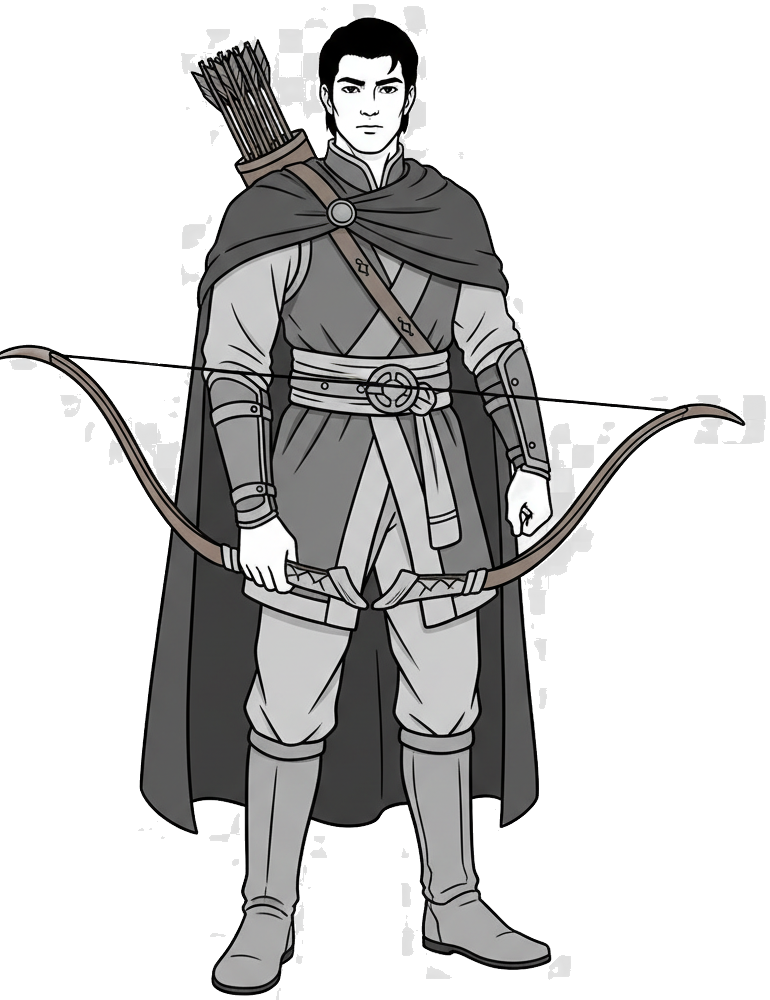
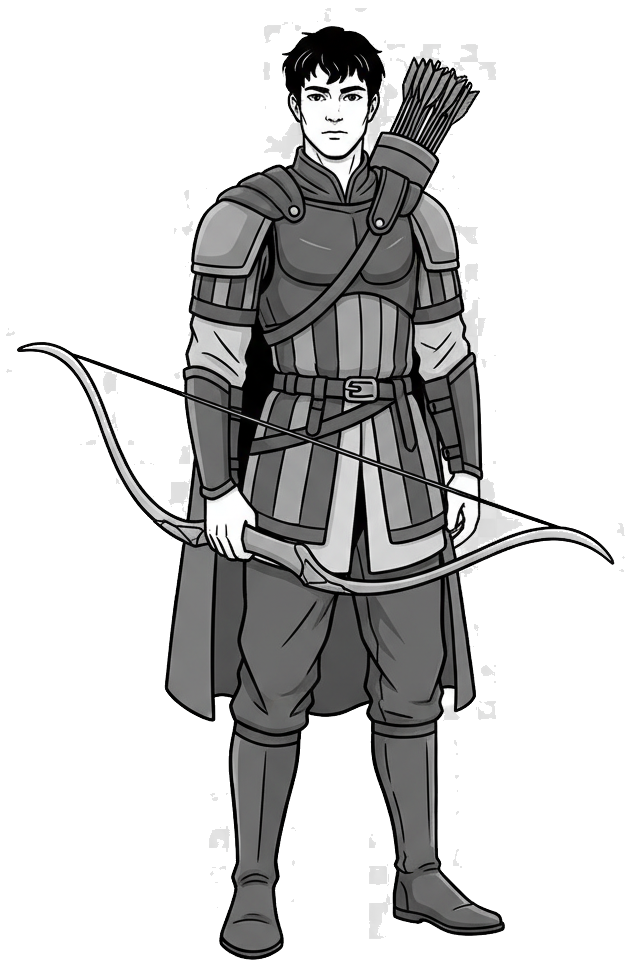
v186: Regenerate the Male/Female Archer be sure there is transparent background

diff --git a/palette-recolor.js b/palette-recolor.js
@@ -23,21 +23,11 @@
     return idx;
   }
 
-  function slotShadeColor(hue, band, px, py, w, h){
+  function slotShadeColor(hue, band){
     const shadeIdx = band - 1; // 0..3
-    const baseSat = [0.65, 0.70, 0.75, 0.80][shadeIdx];
-    const baseLight = [0.28, 0.42, 0.60, 0.78][shadeIdx];
-    // subtle vertical gradient: slightly brighter towards upper areas
-    const grad = (py / h);
-    const lightGradAdj = (0.5 - grad) * 0.06; // -0.03..+0.03
-    // micro-dither to break flat bands (hash without RNG)
-    const n = Math.sin(px * 12.9898 + py * 78.233) * 43758.5453;
-    const frac = n - Math.floor(n);
-    const noiseL = (frac - 0.5) * 0.05; // +/- 0.025
-    const noiseS = (frac - 0.5) * 0.03; // +/- 0.015
-    const s = clamp01(baseSat + noiseS);
-    const l = clamp01(baseLight + lightGradAdj + noiseL);
-    return hslToRgb(hue, s, l);
+    const sat = [0.65, 0.70, 0.75, 0.80][shadeIdx];
+    const light = [0.28, 0.42, 0.60, 0.78][shadeIdx];
+    return hslToRgb(hue, sat, light);
   }
 
   function skinColor(palette, luma){ // keep some shading from original luma
@@ -71,11 +61,8 @@
             const y=getLuma(r,g,b);
             const band=bandForLuma(y);
             let R=r,G=g,B=b;
-            const pixelIndex = i / 4;
-            const px = pixelIndex % c.width;
-            const py = Math.floor(pixelIndex / c.width);
             if (band===0){ R=0; G=0; B=0; } // hair
-            else if (band>=1 && band<=4){ const col=slotShadeColor(hue, band, px, py, c.width, c.height); R=col.r; G=col.g; B=col.b; }
+            else if (band>=1 && band<=4){ const col=slotShadeColor(hue, band); R=col.r; G=col.g; B=col.b; }
             else if (band===5){ R=u1.r; G=u1.g; B=u1.b; }
             else if (band===6){ R=u2.r; G=u2.g; B=u2.b; }
             else { const col=skinColor(pal, y); R=col.r; G=col.g; B=col.b; }
